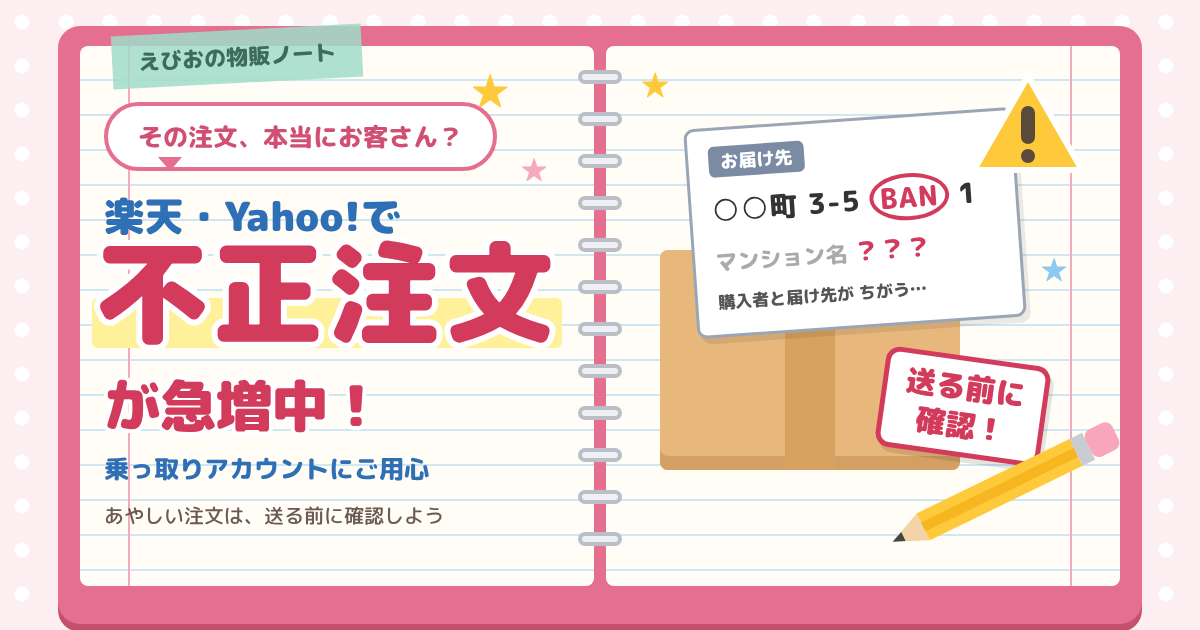
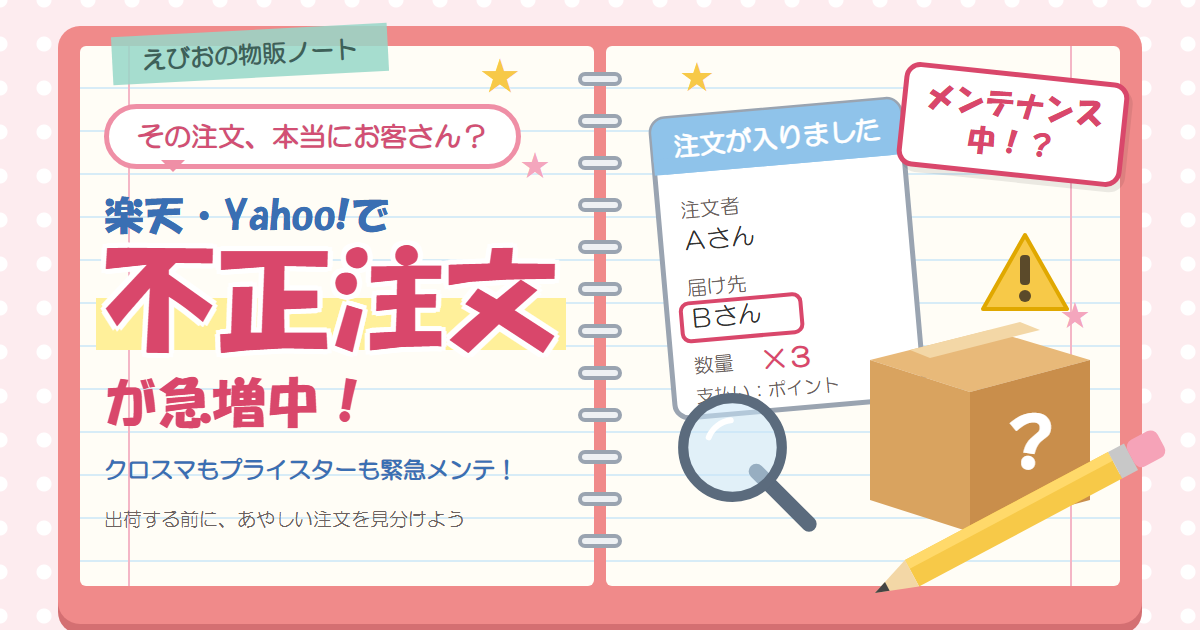
不正注文の記事：今週のニュース・ツール一斉メンテ・スマホ対策を追加、アイキャッチ差し替え

diff --git a/posts/2026-10-21-fusei-chuumon.html b/posts/2026-10-21-fusei-chuumon.html
@@ -25,6 +25,18 @@
 <!-- /wp:paragraph -->
 
 <!-- wp:paragraph -->
+<p>そして今週は、私が毎日使っているツールでも、緊急のアップデートが続いています。今日（2026年10月22日）も、複数のお店をまとめて管理する「クロスマ」と、Amazonの価格改定ツール「プライスター」の両方で、急いだ感じのアップデートが入りました。</p>
+<!-- /wp:paragraph -->
+
+<!-- wp:paragraph -->
+<p>しかも、この記事を書いている今まさに、プライスターもクロスマも、そろって急な「メンテナンス中」になっています。</p>
+<!-- /wp:paragraph -->
+
+<!-- wp:html -->
+<div class="speech-wrap sb-id-1 sbs-stn sbp-l sbis-sb cf"><div class="speech-person"><figure class="speech-icon"><img class="speech-icon-image" src="https://iseebio.jp/wp-content/uploads/2026/10/ebio-bikkuri.png" alt="えびお（びっくり）" width="160" height="160" /></figure><div class="speech-name">えびお</div></div><div class="speech-balloon"><p>ふだん使っている2つのツールが一斉に止まるなんて、本当にすごいことが起きているんだな、という気がします。</p></div></div>
+<!-- /wp:html -->
+
+<!-- wp:paragraph -->
 <p>今回は、えびおのお店で実際にあったことと、調べて分かった最近の状況をまとめました。せどりや物販をしている人は、ぜひ最後まで読んでください。</p>
 <!-- /wp:paragraph -->
 
@@ -97,15 +109,99 @@
 <!-- /wp:html -->
 
 <!-- wp:paragraph -->
-<p><mark style="background-color:rgba(0, 0, 0, 0);color:#c00000" class="has-inline-color"><strong>【要確認：ここにえびおの体験（「覚えがない」と返事が来たあと、どう対応したか。キャンセルしたか、モールに報告したか、など）】</strong></mark></p>
+<p><mark style="color:#c00000" class="has-inline-color"><strong>【要確認：ここにえびおの体験（「覚えがない」と返事が来たあと、どう対応したか。キャンセルしたか、モールに報告したか、など）】</strong></mark></p>
 <!-- /wp:paragraph -->
 
 <!-- wp:heading -->
-<h2 class="wp-block-heading">今なにが起きている？乗っ取りと情報もれの状況</h2>
+<h2 class="wp-block-heading">今なにが起きている？ここ1週間のサイバー攻撃と乗っ取り</h2>
 <!-- /wp:heading -->
 
 <!-- wp:paragraph -->
 <p>私のお店だけの話なのか気になって、いろいろと調べてみました。</p>
+<!-- /wp:paragraph -->
+
+<!-- wp:paragraph -->
+<p>※ここでは、2026年10月22日時点で分かっていることをまとめています。調査中のものも多いので、最新の情報は各社の公式のお知らせで確認してください。</p>
+<!-- /wp:paragraph -->
+
+<!-- wp:heading {"level":3} -->
+<h3 class="wp-block-heading">プライスターもクロスマも、一斉に緊急メンテナンス</h3>
+<!-- /wp:heading -->
+
+<!-- wp:paragraph -->
+<p>まずは、今まさに起きていることからです。</p>
+<!-- /wp:paragraph -->
+
+<!-- wp:paragraph -->
+<p>先ほども書いたとおり、今日はクロスマとプライスターで緊急のアップデートが入り、今は2つともメンテナンス中になっています。ツールの会社がここまで急いで動いているということは、それだけ大きなことが起きているということだと思います。<mark style="background-color:rgba(0, 0, 0, 0);color:#c00000" class="has-inline-color"><strong>【要確認：クロスマ・プライスターのメンテナンスの理由（各社のお知らせで確認）】</strong></mark></p>
+<!-- /wp:paragraph -->
+
+<!-- wp:paragraph -->
+<p>ツールが止まっていても、各モールでは注文が入ってきます。<mark style="background-color:#fff09a" class="has-inline-color">メンテナンスが終わるまでは、各モールの管理画面で注文と在庫を直接確かめておく</mark>と安心です。そのあいだに入った注文は、とくに気をつけて見ておきたいところです。</p>
+<!-- /wp:paragraph -->
+
+<!-- wp:heading {"level":3} -->
+<h3 class="wp-block-heading">PHPに「緊急」レベルの欠陥が見つかった（10月20日〜21日）</h3>
+<!-- /wp:heading -->
+
+<!-- wp:paragraph -->
+<p>この1〜2日で一番大きいニュースが、これです。</p>
+<!-- /wp:paragraph -->
+
+<!-- wp:paragraph -->
+<p>「PHP（ピーエイチピー）」は、たくさんのWebサイトやWebサービスを動かしているプログラムの言葉です。WordPressのブログや、ネットショップのシステムなどにも広く使われています。</p>
+<!-- /wp:paragraph -->
+
+<!-- wp:paragraph -->
+<p>このPHPそのものに、とても危ない欠陥が2つ見つかりました。通称は「php2shell」です。悪用されると、外の人がサーバー（サービスを動かしているコンピューター）を勝手に操れてしまうおそれがあるそうです。</p>
+<!-- /wp:paragraph -->
+
+<!-- wp:html -->
+<div class="blank-box bb-red"><ul><li>10月20日：PHPの開発チームが「重大な欠陥の修正版を出す」と予告</li><li>10月21日 夜11時ごろ：修正版が公開された</li><li>危なさの点数は10点満点で「9.2」（いちばん上の「緊急」レベル）</li><li>セキュリティ会社からは、すでに攻撃に使われている様子が見つかったという発表も</li></ul></div>
+<!-- /wp:html -->
+
+<!-- wp:paragraph -->
+<p>このため、10月21日の夜からは、ゲーム会社やサーバー会社など、いろいろな会社が一斉に「緊急メンテナンス」に入りました。クロスマやプライスターのメンテナンスも、時期を考えると、この件への対応なのかもしれません。</p>
+<!-- /wp:paragraph -->
+
+<!-- wp:heading {"level":3} -->
+<h3 class="wp-block-heading">一元管理ツールから注文情報が流出（10月14日〜）</h3>
+<!-- /wp:heading -->
+
+<!-- wp:paragraph -->
+<p>せどりをしている人にとって、いちばん他人ごとではないのがこれです。</p>
+<!-- /wp:paragraph -->
+
+<!-- wp:paragraph -->
+<p>楽天・Yahoo!ショッピング・Amazon・メルカリShopsなど、たくさんのお店をまとめて管理できる「WASABI SWITCH（ワサビスイッチ）」というサービスが、不正アクセスを受けました。クロスマと同じような、いわゆる「一元管理ツール」です。</p>
+<!-- /wp:paragraph -->
+
+<!-- wp:html -->
+<div class="blank-box bb-red"><ul><li>10月14日：不正アクセスがあり、お店の注文情報などが外に出たと発表</li><li>10月16日〜17日：もれていた管理者のパスワードを使われて、ふたたび入り込まれた</li><li>流出した情報を使って、お客さんに「返金の手続き」をよそおう偽メールが届いている</li><li>偽メールは、LINEに連絡させたり、カード番号を入れさせたりしようとする</li></ul></div>
+<!-- /wp:html -->
+
+<!-- wp:paragraph -->
+<p>本物の注文内容が書かれた偽メールが届くので、お客さんはだまされやすいです。お店の信用にもかかわる、とてもこわい話です。</p>
+<!-- /wp:paragraph -->
+
+<!-- wp:paragraph -->
+<p>お客さんから「返金のメールが来たんですけど？」と聞かれたら、<mark style="background-color:#fff09a;color:#c00000" class="has-inline-color"><strong>お店からLINEに誘ったり、カード番号を聞いたりすることはありません</strong></mark>と、はっきり伝えてあげましょう。</p>
+<!-- /wp:paragraph -->
+
+<!-- wp:paragraph -->
+<p>なお、10月15日には「CROS（クロス）」という、名前の似たサービスの情報流出のニュースも出ています。こちらは別の会社のサービスで、クロスマとは関係ありません。</p>
+<!-- /wp:paragraph -->
+
+<!-- wp:heading {"level":3} -->
+<h3 class="wp-block-heading">ネットショップ作成サービスも緊急停止（10月21日）</h3>
+<!-- /wp:heading -->
+
+<!-- wp:paragraph -->
+<p>10月21日には、自社のネットショップを作れる「futureshop（フューチャーショップ）」でも、サーバーの一部に不正アクセスが見つかりました。</p>
+<!-- /wp:paragraph -->
+
+<!-- wp:paragraph -->
+<p>被害が広がらないように一部のサーバーを止めたため、対象のお店ではネットショップも管理画面も使えなくなったそうです。情報がもれたかどうかは、まだ調査中とのことです。</p>
 <!-- /wp:paragraph -->
 
 <!-- wp:heading {"level":3} -->
@@ -141,6 +237,10 @@
 <!-- /wp:paragraph -->
 
 <!-- wp:paragraph -->
+<p>その少し前の10月4日ごろには、犯罪者が集まるネットの掲示板に「楽天の会員データ約1億100万件を売る」という書き込みも出ていました。ただし楽天グループは、取材に対して「情報がもれた事実は確認されていない」と答えています。</p>
+<!-- /wp:paragraph -->
+
+<!-- wp:paragraph -->
 <p>3月のニュースと同じ原因なのかは、今のところ分かっていません。でも、乗っ取りによる不正注文が今も続いていることは、私のお店の様子からも感じます。</p>
 <!-- /wp:paragraph -->
 
@@ -159,6 +259,14 @@
 <!-- wp:paragraph -->
 <p>美容や健康の商品を買う人の情報は、こうしたところからもねらわれているのだと思います。</p>
 <!-- /wp:paragraph -->
+
+<!-- wp:paragraph -->
+<p>10月に入ってからも、ネット通販や配送にかかわる会社の情報流出の発表が続いています。</p>
+<!-- /wp:paragraph -->
+
+<!-- wp:html -->
+<div class="blank-box bb-red"><ul><li>ブックオフ（10月9日）：会員の情報 約638万人分</li><li>ファンケル（10月16日）：通販サイトの情報 約78万人分の可能性</li><li>ヤマト運輸の「クロネコ代金後払いサービス」（10月16日）：お客さんの情報など 約531万件</li></ul></div>
+<!-- /wp:html -->
 
 <!-- wp:heading {"level":3} -->
 <h3 class="wp-block-heading">AIの発達で、攻撃する側も進化している</h3>
@@ -193,7 +301,7 @@
 <!-- /wp:html -->
 
 <!-- wp:paragraph -->
-<p><mark style="background-color:rgba(0, 0, 0, 0);color:#c00000" class="has-inline-color"><strong>【要確認：ほかに、えびおが気づいた特徴があれば（注文の個数、注文が来る時間帯、よくねらわれる商品など）】</strong></mark></p>
+<p><mark style="color:#c00000" class="has-inline-color"><strong>【要確認：ほかに、えびおが気づいた特徴があれば（注文の個数、注文が来る時間帯、よくねらわれる商品など）】</strong></mark></p>
 <!-- /wp:paragraph -->
 
 <!-- wp:paragraph -->
@@ -213,11 +321,11 @@
 <!-- /wp:paragraph -->
 
 <!-- wp:paragraph -->
-<p>一度発送してしまうと、荷物を取りもどすのはむずかしくなります。商品を失ううえに、あとから代金が取り消されることもあるかもしれません。<mark style="background-color:rgba(0, 0, 0, 0);color:#c00000" class="has-inline-color"><strong>【要確認：不正注文の商品を送ってしまったとき、売上が取り消されるか（楽天・Yahoo!それぞれのルール）】</strong></mark></p>
+<p>一度発送してしまうと、荷物を取りもどすのはむずかしくなります。商品を失ううえに、あとから代金が取り消されることもあるかもしれません。<mark style="color:#c00000" class="has-inline-color"><strong>【要確認：不正注文の商品を送ってしまったとき、売上が取り消されるか（楽天・Yahoo!それぞれのルール）】</strong></mark></p>
 <!-- /wp:paragraph -->
 
 <!-- wp:paragraph -->
-<p>判断に迷ったときは、出店しているモールの窓口に相談するのが安心です。楽天なら店舗運営の管理画面、Yahoo!ショッピングならストア向けの窓口から問い合わせできます。<mark style="background-color:rgba(0, 0, 0, 0);color:#c00000" class="has-inline-color"><strong>【要確認：不正注文の相談先（窓口の名前）】</strong></mark></p>
+<p>判断に迷ったときは、出店しているモールの窓口に相談するのが安心です。楽天なら店舗運営の管理画面、Yahoo!ショッピングならストア向けの窓口から問い合わせできます。<mark style="color:#c00000" class="has-inline-color"><strong>【要確認：不正注文の相談先（窓口の名前）】</strong></mark></p>
 <!-- /wp:paragraph -->
 
 <!-- wp:html -->
@@ -225,7 +333,7 @@
 <!-- /wp:html -->
 
 <!-- wp:heading -->
-<h2 class="wp-block-heading">自分のメールアドレスがもれていないか確かめよう</h2>
+<h2 class="wp-block-heading">自分のメールアドレスとスマホを守ろう</h2>
 <!-- /wp:heading -->
 
 <!-- wp:paragraph -->
@@ -245,7 +353,7 @@
 <!-- /wp:html -->
 
 <!-- wp:paragraph -->
-<p>Have I Been Pwnedは、海外のセキュリティの専門家が作ったサイトで、画面は英語です。でも、メールアドレスを入れるだけなので、むずかしくありません。<mark style="background-color:rgba(0, 0, 0, 0);color:#c00000" class="has-inline-color"><strong>【要確認：ボタンの文字（「Check」か「pwned?」か）など、サイトの今の画面】</strong></mark></p>
+<p>Have I Been Pwnedは、海外のセキュリティの専門家が作ったサイトで、画面は英語です。でも、メールアドレスを入れるだけなので、むずかしくありません。<mark style="color:#c00000" class="has-inline-color"><strong>【要確認：ボタンの文字（「Check」か「pwned?」か）など、サイトの今の画面】</strong></mark></p>
 <!-- /wp:paragraph -->
 
 <!-- wp:paragraph -->
@@ -253,7 +361,7 @@
 <!-- /wp:paragraph -->
 
 <!-- wp:paragraph -->
-<p><mark style="background-color:rgba(0, 0, 0, 0);color:#c00000" class="has-inline-color"><strong>【要確認：ここにえびおの体験（自分のメールアドレスを調べてみた結果など）】</strong></mark></p>
+<p><mark style="color:#c00000" class="has-inline-color"><strong>【要確認：ここにえびおの体験（自分のメールアドレスを調べてみた結果など）】</strong></mark></p>
 <!-- /wp:paragraph -->
 
 <!-- wp:heading {"level":3} -->
@@ -269,12 +377,76 @@
 <!-- /wp:html -->
 
 <!-- wp:paragraph -->
-<p>楽天では、2026年から「パスキー」や二段階認証が使えるサービスを広げています。パスキーとは、スマホの顔認証や指紋などでログインできるしくみです。<mark style="background-color:rgba(0, 0, 0, 0);color:#c00000" class="has-inline-color"><strong>【要確認：楽天市場で今パスキー・二段階認証が使えるか】</strong></mark></p>
+<p>楽天では、2026年から「パスキー」や二段階認証が使えるサービスを広げています。パスキーとは、スマホの顔認証や指紋などでログインできるしくみです。<mark style="color:#c00000" class="has-inline-color"><strong>【要確認：楽天市場で今パスキー・二段階認証が使えるか】</strong></mark></p>
 <!-- /wp:paragraph -->
 
 <!-- wp:paragraph -->
 <p><mark style="background-color:#fff09a;color:#c00000" class="has-inline-color"><strong>パスワードの使い回しは、乗っ取りの一番の入り口</strong></mark>です。ここだけは、今日のうちに見直してみてください。</p>
 <!-- /wp:paragraph -->
+
+<!-- wp:heading {"level":3} -->
+<h3 class="wp-block-heading">スマホの「確認コード」の設定も見直そう</h3>
+<!-- /wp:heading -->
+
+<!-- wp:paragraph -->
+<p>Xでは今、「iPhoneとAndroidの、この設定がオンだと不正決済される」という動画が話題になっています。</p>
+<!-- /wp:paragraph -->
+
+<!-- wp:paragraph -->
+<p>ねらわれているのは、ネットの買い物やログインの最後に、SMS（スマホのショートメッセージ）で届く6けたの「確認コード」です。ワンタイムパスワードとも呼ばれ、1回だけ使える数字のことです。</p>
+<!-- /wp:paragraph -->
+
+<!-- wp:paragraph -->
+<p>手口はこうです。犯人は、もれたカード番号を使って本物のお店で買い物を始めます。すると、本人のスマホに本物の確認コードが届きます。</p>
+<!-- /wp:paragraph -->
+
+<!-- wp:paragraph -->
+<p>同時に、カード会社やお店を名乗る偽のページで「ご本人確認のため、届いたコードを入れてください」と入力させます。そこで入れたコードで、犯人の買い物が通ってしまうというわけです。</p>
+<!-- /wp:paragraph -->
+
+<!-- wp:paragraph -->
+<p>動画では、届いたコードがキーボードの上に出てきて、そのまま入れられる「自動入力」の機能をオフにするよう、すすめていました。</p>
+<!-- /wp:paragraph -->
+
+<!-- wp:paragraph -->
+<p>ただ、動画では「消費者庁が緊急警告を出した」と言っていますが、私が調べた範囲では、消費者庁がこの設定について出した公式の発表は見つけられませんでした。<mark style="background-color:rgba(0, 0, 0, 0);color:#c00000" class="has-inline-color"><strong>【要確認：消費者庁が確認コードの自動入力について発表しているか】</strong></mark></p>
+<!-- /wp:paragraph -->
+
+<!-- wp:paragraph -->
+<p>消費者庁が10月に呼びかけていたのは、「パスワードを使い回さない」「不安なときは消費者ホットライン（188）に相談する」といったことです。</p>
+<!-- /wp:paragraph -->
+
+<!-- wp:paragraph -->
+<p>それでも、確認コードがねらわれているのは本当です。設定を見直しておいて損はないので、やり方を紹介しておきます。</p>
+<!-- /wp:paragraph -->
+
+<!-- wp:html -->
+<div class="blank-box bb-tab bb-check bb-blue"><ul><li>Android：設定 → Google → 自動入力 → SMS確認コード。「デフォルトのブラウザでコードを自動入力」などのスイッチをオフにする</li><li>iPhone：設定 → 一般 → 自動入力とパスワード。「確認コード」の下の「使用後に削除」をオンにすると、使い終わったコードがメッセージから消える</li></ul></div>
+<!-- /wp:html -->
+
+<!-- wp:paragraph -->
+<p><mark style="background-color:rgba(0, 0, 0, 0);color:#c00000" class="has-inline-color"><strong>【要確認：スマホの機種やOSのバージョンで、画面の名前がちがうことがある】</strong></mark></p>
+<!-- /wp:paragraph -->
+
+<!-- wp:paragraph -->
+<p>自動入力をオフにしても、確認コードは今までどおりSMSで届きます。自分で見て入れればいいだけなので、困ることはあまりありません。</p>
+<!-- /wp:paragraph -->
+
+<!-- wp:paragraph -->
+<p>ただし、設定を変えるだけで安心はできません。偽のページに自分の手でコードを入れてしまえば、同じことになるからです。いちばん大事なのは、次のことです。</p>
+<!-- /wp:paragraph -->
+
+<!-- wp:paragraph -->
+<p><mark style="background-color:#fff09a;color:#c00000" class="has-inline-color"><strong>何もしていないのに確認コードが届いたら、どんなページに聞かれても入れない</strong></mark></p>
+<!-- /wp:paragraph -->
+
+<!-- wp:paragraph -->
+<p>自分で買い物やログインをしていないのにコードが届いたら、今まさにどこかで誰かが、あなたのカードやアカウントを使おうとしているサインです。コードは入れずにSMSを消して、カード会社やサービスの公式の窓口に連絡しましょう。</p>
+<!-- /wp:paragraph -->
+
+<!-- wp:html -->
+<div class="speech-wrap sb-id-1 sbs-stn sbp-l sbis-sb cf"><div class="speech-person"><figure class="speech-icon"><img class="speech-icon-image" src="https://iseebio.jp/wp-content/uploads/2026/10/ebio-magao.png" alt="えびお（真顔）" width="160" height="160" /></figure><div class="speech-name">えびお</div></div><div class="speech-balloon"><p>「消費者庁が緊急警告」のような、あわてさせる動画やメッセージも増えています。話題になっている話ほど、一度公式の発表を確かめてから動くのが安心です。</p></div></div>
+<!-- /wp:html -->
 
 <!-- wp:heading {"level":3} -->
 <h3 class="wp-block-heading">覚えのない注文を見つけたら</h3>
@@ -301,7 +473,7 @@
 <!-- /wp:heading -->
 
 <!-- wp:html -->
-<div class="blank-box bb-tab bb-point bb-yellow"><ul><li>アカウントの乗っ取りによる不正注文が、楽天やYahoo!ショッピングの美容関係のお店で増えている</li><li>住所がちがう・表記がおかしい・マンション名がない注文は、発送前に購入者へ確認する</li><li>自分のメールアドレスがもれていないか調べて、パスワードの使い回しをやめ、二段階認証を使う</li></ul></div>
+<div class="blank-box bb-tab bb-point bb-yellow"><ul><li>乗っ取りによる不正注文が、楽天やYahoo!ショッピングの美容関係のお店で増えている。ここ1週間はPHPの重大な欠陥や一元管理ツールの情報流出もあいつぎ、プライスターとクロスマも一斉に緊急メンテナンスに入った</li><li>住所がちがう・表記がおかしい・マンション名がない注文は、発送前に購入者へ確認する</li><li>自分のメールアドレスがもれていないか調べて、パスワードの使い回しをやめ、二段階認証を使う。覚えのない確認コードは絶対に入れない</li></ul></div>
 <!-- /wp:html -->
 
 <!-- wp:html -->
